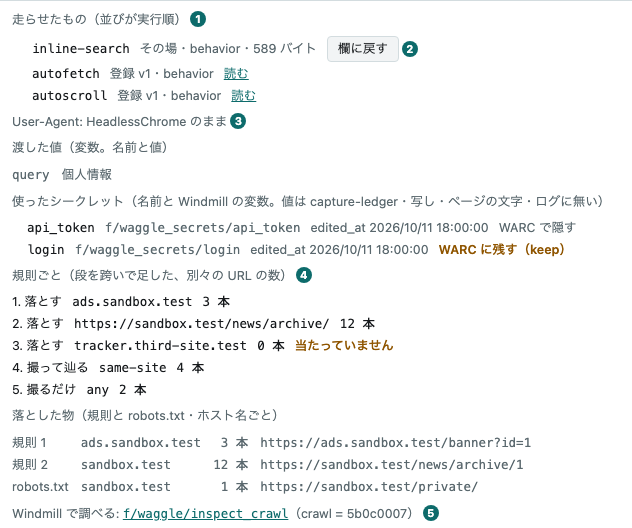
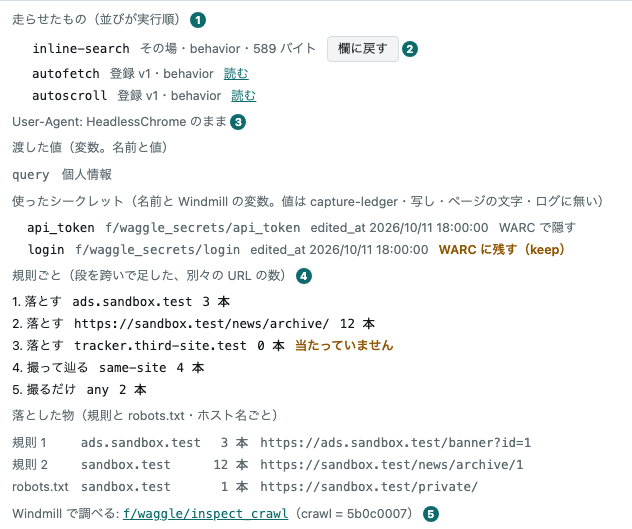
feat: 辿る指定でリンクが 1 本も無かったクロールを「リンクなし」と出す（CAPTURE-245） (#99)
* feat: 辿る指定でリンクが 1 本も無かったクロールを「リンクなし」と出す（CAPTURE-245）

capture-ledger の stopReason no_links を、状態の欄で「リンクなし」（注意の色）と言う。
起点から 1 歩も進めなかったクロールを、緑の「完走」にしない。

- public/format.js の stateOf と注記
- 試験に stateOf の 2 行
- 代役のシナリオに no_links の行（5b0c000a・代役だけの id）
- docs: screens.md（ja・en）の状態の説明

Claude-Session: https://claude.ai/code/session_01TRqfaPDWwy3rN5MJDvREev

* docs: クロールの表の絵を撮り直し、絵の全部の枠を 311 → 312 KB に（CAPTURE-245）

crawls.webp に no_links の行が増えて 22.8 → 24.3 KB、全部で 311.3 KB。Chief of Staff の決定。
1 枚の枠 39 KB は変えない。development.md（en・ja）の写しは 35/306 のままだったので 39/312 に。

Claude-Session: https://claude.ai/code/session_01TRqfaPDWwy3rN5MJDvREev

---------

diff --git a/public/format.js b/public/format.js
@@ -12,6 +12,9 @@
  * 締める。capture-ledger v0.77.0）、全部を辿った完走と、上限で切った打ち切りが混ざる。`max_depth`・`max_pages` が
  * 立つのは、まだ撮っていないリンクが残っていたときだけ（capture-ledger v0.83.0）。
  *
+ * **辿るよう頼んだのにリンクが 1 本も無ければ「リンクなし」と言う**（capture-ledger の `no_links`。CAPTURE-245）。
+ * 起点から 1 歩も進めなかったクロールを、緑の「完走」にしない —— frameset の頁は、これで 1 ページで黙って終わっていた。
+ *
  * **深さ 0 のクロールは「このページだけ」と言う。** 辿らないと頼んだのだから、リンクが残っていても打ち切りでは
  * ない。行の `maxDepth` で決める。
  *
@@ -25,6 +28,7 @@ export const stateOf = (crawl) => {
   if (crawl.maxDepth === 0) {
     return { text: `このページだけ${short}`, kind: short === "" ? "ok" : "warn" };
   }
+  if (crawl.stopReason === "no_links") return { text: `リンクなし${short}`, kind: "warn" };
   if (crawl.stopReason === "completed") {
     return { text: `完走${short}`, kind: short === "" ? "ok" : "warn" };
   }

diff --git a/docs-site/src/content/docs/ja/screens.md b/docs-site/src/content/docs/ja/screens.md
@@ -159,6 +159,7 @@ capture-ledger がクロールの合本を書いていれば、隣の「ReplayWe
 `succeeded` には、全部を辿り終えた完走と、深さや枚数の上限で切った打ち切りが混ざっています。
 workbench は `stopReason` と合わせて「完走」「打ち切り (深さ)」のように言い分け、知らない `stopReason` は括弧に入れてそのまま見せます。
 深さ 0 のクロールは、辿らないと頼んだのだから打ち切りではないので、リンクが残っていても「このページだけ」と言います（capture-ledger の一覧の `maxDepth`）。
+辿るよう頼んだのに、規則が通したリンクが 1 本も無かったクロールは「リンクなし」（注意の色）です（capture-ledger の `no_links`）。起点から 1 歩も進めなかったことを、緑の「完走」と分けて見せます。
 取れなかったページがあれば「完走・2 枚取れず」のように数（capture-ledger の `pagesFailed`）を添え、全部を辿っていても緑にしません。
 1 枚も撮れなかったクロールは capture-ledger が `failed` で締めるので、「失敗」です。
 

diff --git a/docs-site/src/content/docs/screens.md b/docs-site/src/content/docs/screens.md
@@ -199,7 +199,9 @@ the crawl's bundle.
 crawls that were cut at the depth or page limit. The workbench words them apart using `stopReason`
 (完走 for completed, 打ち切り for cut at a limit), and shows an unknown `stopReason` as it
 is, in parentheses. A depth-0 crawl asked not to follow links, so it is not cut even if links are
-left over: it reads このページだけ (the ledger's `maxDepth` on the list). If some pages could not be fetched it adds the count (the ledger's
+left over: it reads このページだけ (the ledger's `maxDepth` on the list). A crawl asked to follow links that found
+none the rules let through reads リンクなし, in the warning colour (capture-ledger's `no_links`): it never got past its
+seeds, and that is kept apart from a green 完走. If some pages could not be fetched it adds the count (the ledger's
 `pagesFailed`), as in 完走・2 枚取れず, and the row is not green even if everything was followed. A
 crawl that captured nothing is closed as `failed` by the ledger, so it reads 失敗.
 

diff --git a/docs-site/src/content/docs/ja/development.md b/docs-site/src/content/docs/ja/development.md
@@ -173,7 +173,7 @@ npm run docs:shots -- start crawls   # 名指した絵だけ
   控えを手で写して緑にしないこと —— 絵が古いまま残ります。
 - **名指して撮っても、控えは変わらない。**
   控えを今に合わせるのは、全部を撮ったときだけです。
-- **絵は lossless の WebP で、1 枚 35 KB・全部で 306 KB まで。**
+- **絵は lossless の WebP で、1 枚 39 KB・全部で 312 KB まで。**
   撮り直すたびに git に積もるからです。
   超えると `site:check` が落ちます。
   そのときは `docs-shots.mjs` の `SHOTS` で、写す箱を小さくするか、高さの上限（`maxHeight`）を下げます。

diff --git a/docs-site/src/content/docs/development.md b/docs-site/src/content/docs/development.md
@@ -188,7 +188,7 @@ npm run docs:shots -- start crawls   # only the named ones
   the pictures would stay stale.
 - **Taking named pictures leaves the stamp alone.** Only a run that takes all of them brings it up
   to date.
-- **The pictures are lossless WebP, at most 35 KB each and 306 KB in all,** because every re-take
+- **The pictures are lossless WebP, at most 39 KB each and 312 KB in all,** because every re-take
   piles up in git. Going over makes `site:check` fail; then make the cropped box smaller, or lower
   its height limit (`maxHeight`), in `SHOTS` in `docs-shots.mjs`.
 - **A picture meant to be read fits the docs' column.** The docs show a picture at its pixel size,
